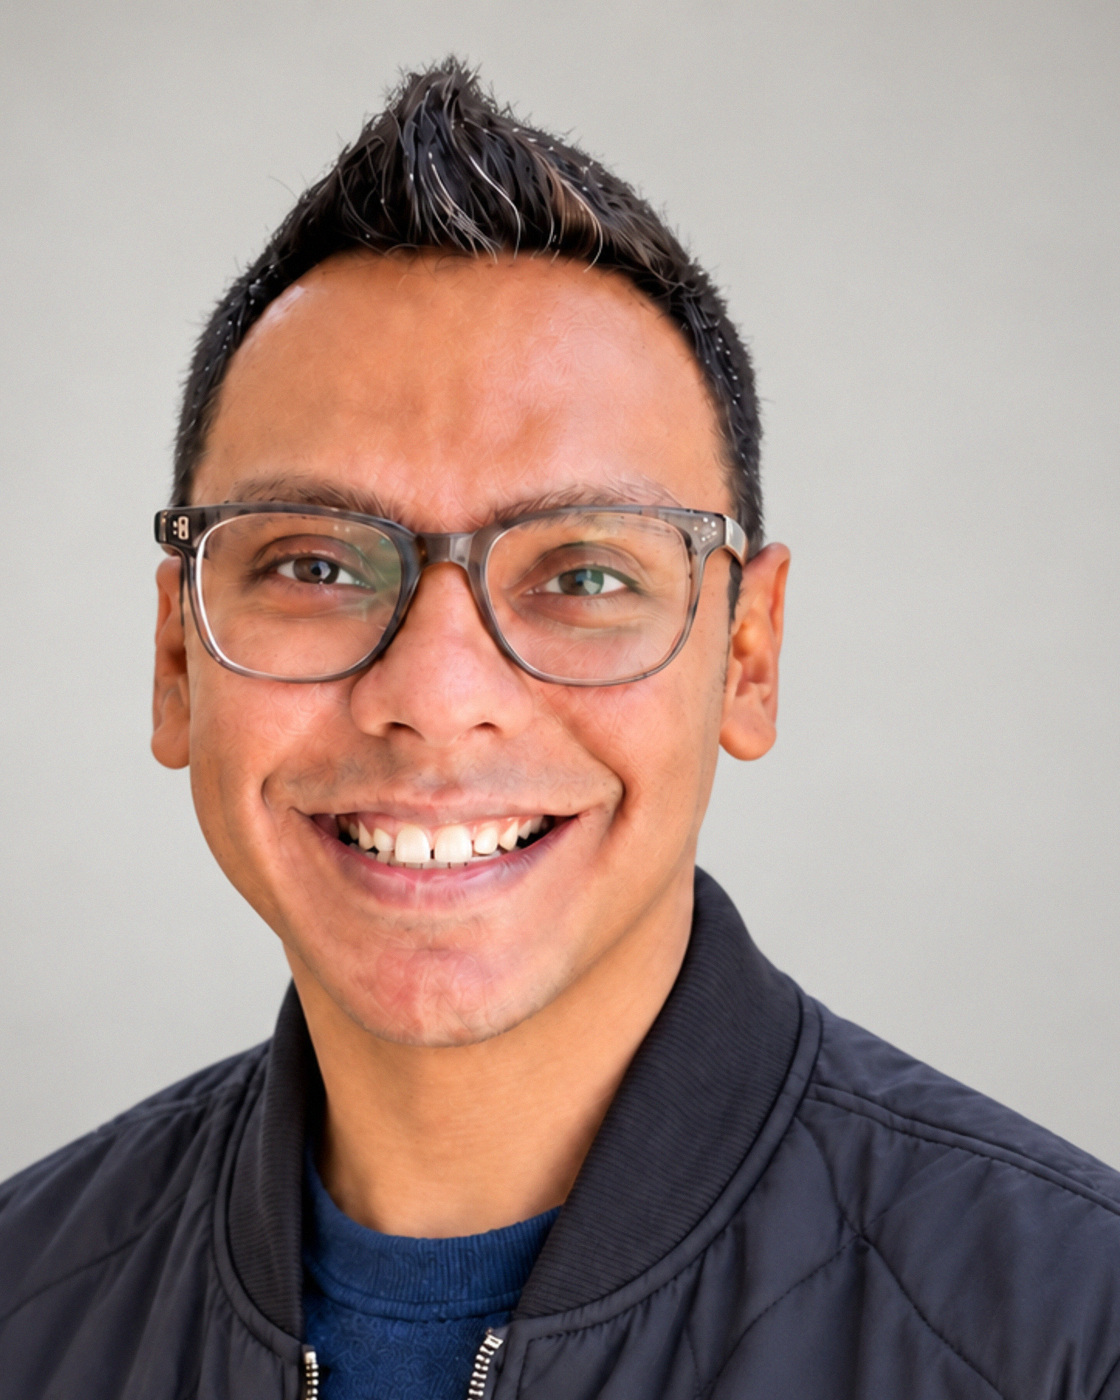
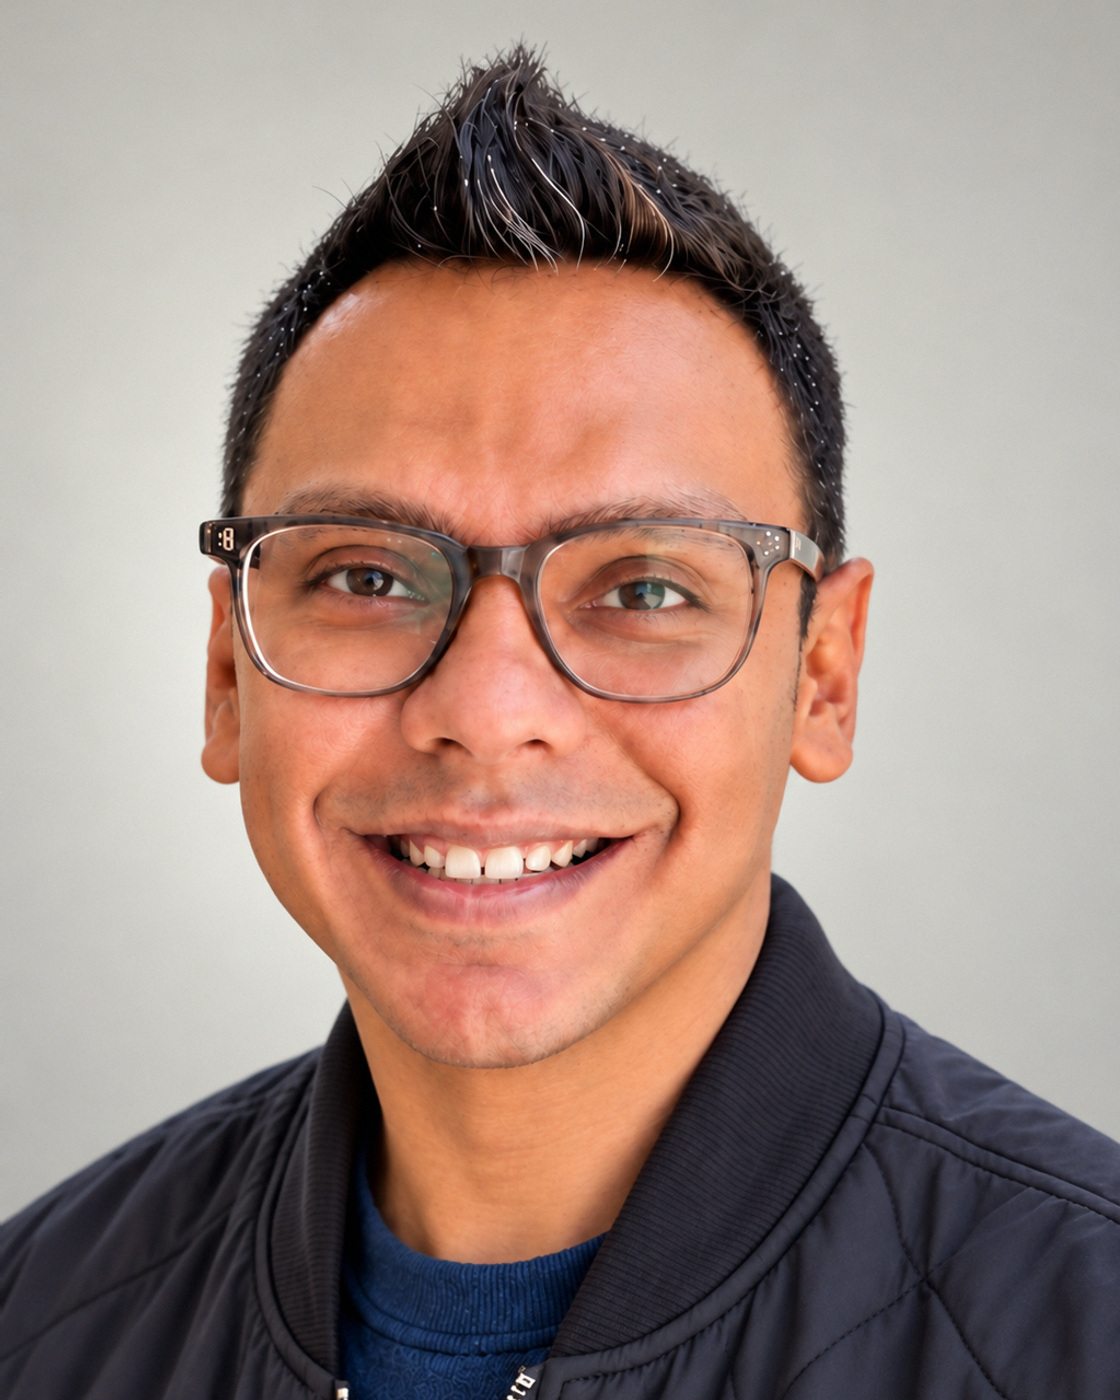
Match the founder portraits in pose, light and framing
Both portraits now come from one shared brief: the same body and head
angle, smile, key and fill light, backdrop and lens. They were then
cropped from Apple Vision eye and chin positions so the eyes sit level
at the same height with the same head size, and their white balance
was matched on the backdrop. Each still measures within about 2% of
its source photo on face geometry.

diff --git a/README.md b/README.md
@@ -53,7 +53,7 @@ Headlines rise in on load, text rises and photographs unmask as they arrive, fig
 
 The photographs of Tokyo (`src/assets/photos/`) are generated placeholders, made to set the art direction. Replace them with licensed or commissioned photography before launch, keeping the same file names and roughly the same framing. `src/components/Photos.ts` holds each one's focal point.
 
-Founder portraits start from colour masters in `assets-source/portraits/`. Each was made by editing that founder's own photo into one consistent studio session (the same grey backdrop, soft light and framing) while keeping the face unchanged. They were checked against the source photos side by side and with Apple Vision face geometry, landing within about 1.5% of the source on average. `scripts/portraits.mjs` crops both to 4:5 in colour. Each founder should approve their portrait before launch, and real studio photos can replace the masters at any time.
+Founder portraits start from colour masters in `assets-source/portraits/`. Each was made by editing that founder's own photo into one consistent studio session (the same grey backdrop, soft light and framing) while keeping the face unchanged. They were checked against the source photos side by side and with Apple Vision face geometry, landing within about 2% of the source on average. Both share one pose, light, backdrop and lens, and were cropped so the eyes sit level at the same height with the same head size. `scripts/portraits.mjs` scales both to 960 × 1200 in colour. Each founder should approve their portrait before launch, and real studio photos can replace the masters at any time.
 
 ## Deploy
 
